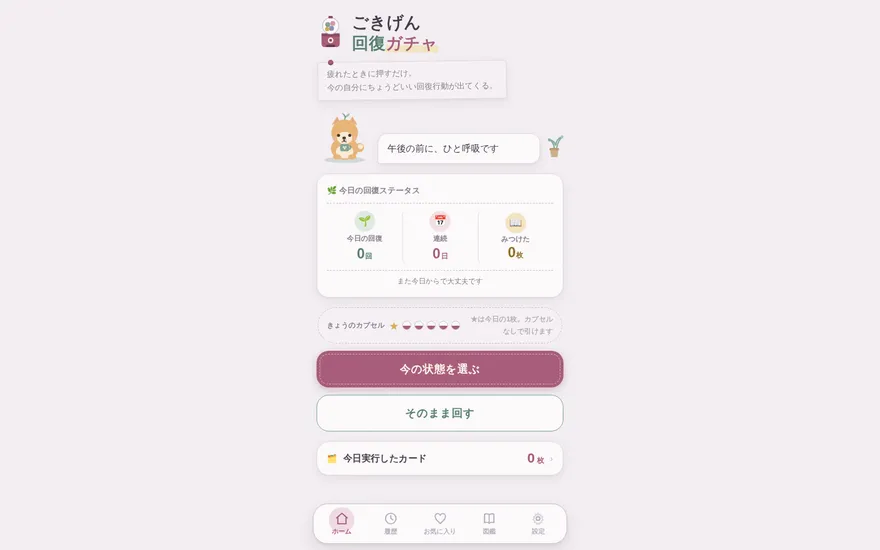
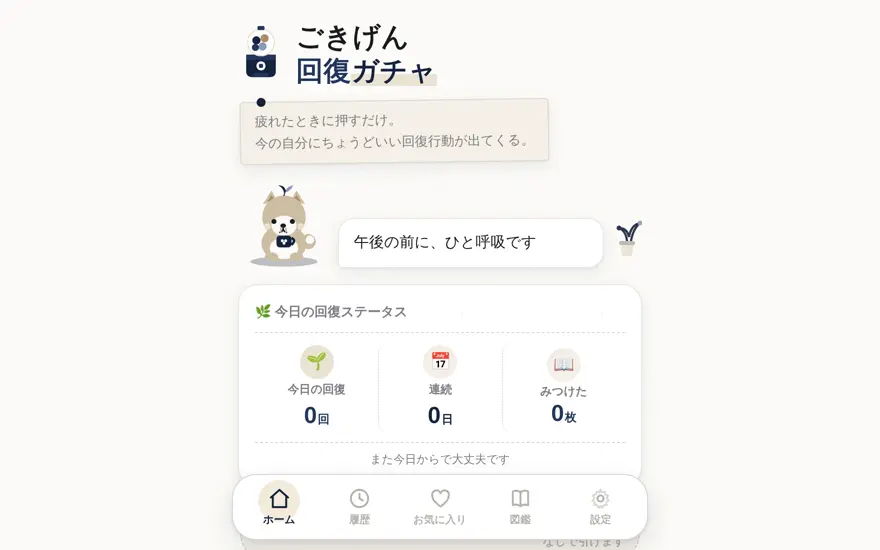
WIP: gokigen-gacha カテゴリ明度スケール反映+カタログ掲載配線(3照合中)
- カテゴリ7種の擬似区別をdesigner再設計どおり藍→生成りの明度1本スケールに
  (tag/state-card/tape/結果絵文字環。エイリアス廃止・具体トークン化)
- 機能系の旧sage/butter参照を藍系トークンへ(btn-secondary・週バー・
  トグル・★・付箋等)
- 掲載: PRODUCTS配列にカード追加(台帳catalogDraft)・sitemap追加・
  サムネイルを新配色で再生成

Claude-Session: https://claude.ai/code/session_01Qd9AdVq9npQuqHWcpJTbTa

Changed region(s): [[0.2761, 0.34, 0.7364, 1.0], [0.2761, 0.0309, 0.6443, 0.3091], [0.7057, 0.4018, 0.7364, 0.4636]]

diff --git a/gokigen-gacha/app/styles.css b/gokigen-gacha/app/styles.css
@@ -29,13 +29,6 @@
   --soft-border: var(--line); --soft-border-strong: var(--line-strong);
   /* CTA・強調(旧プラム)→ 藍 */
   --persimmon: var(--navy); --persimmon-deep: var(--blue); --persimmon-soft: var(--bg-3);
-  /* カテゴリ系 → 4系統内で擬似的に区別(designer再設計を反映) */
-  --sage: var(--navy);       --sage-deep: var(--blue);       --sage-soft: var(--bg-3);
-  --dusty-blue: var(--navy); --dusty-blue-deep: var(--blue); --dusty-blue-soft: var(--bg-3);
-  --peach: var(--navy);      --peach-deep: var(--blue);      --peach-soft: var(--bg-3);
-  --lav: var(--navy);        --lav-deep: var(--blue);        --lav-soft: var(--bg-3);
-  --butter: var(--navy);     --butter-deep: var(--blue);     --butter-soft: var(--bg-3);
-  --cream-soft: var(--bg-3); --cream-deep: var(--ink-3);
   --danger: var(--ink-2);
 
   /* ---- shadow tokens(藍の影) ---- */
@@ -147,15 +140,15 @@ button:active { transform: scale(0.985); }
   box-shadow: 0 1px 2px rgba(120, 90, 50, 0.12);
   background:
     repeating-linear-gradient(45deg, rgba(255,255,255,0.16) 0 5px, transparent 5px 10px),
-    var(--sage);
+    var(--blue-soft);
 }
-.tape.t-sage   { background-color: var(--sage); }
-.tape.t-blue   { background-color: var(--dusty-blue); }
-.tape.t-peach  { background-color: var(--peach); }
-.tape.t-lav    { background-color: var(--lav); }
-.tape.t-green  { background-color: var(--sage); }
-.tape.t-butter { background-color: var(--butter); }
-.tape.t-cream  { background-color: var(--cream-deep); opacity: 0.55; }
+.tape.t-blue   { background-color: var(--navy); }
+.tape.t-sage   { background-color: var(--blue-soft); }
+.tape.t-green  { background-color: var(--bg-3); }
+.tape.t-peach  { background-color: var(--bg-3); }
+.tape.t-lav    { background-color: var(--bg-2); }
+.tape.t-butter { background-color: var(--bg-2); }
+.tape.t-cream  { background-color: var(--ink-3); opacity: 0.55; }
 .tape.tilt-r { transform: translateX(-50%) rotate(2.5deg); }
 
 /* ---- button variants ---- */
@@ -191,8 +184,8 @@ button:active { transform: scale(0.985); }
 .btn-primary:active { filter: brightness(0.94); }
 .btn-secondary {
   background: var(--paper);
-  color: var(--sage-deep);
-  border: 1.6px solid var(--sage);
+  color: var(--blue);
+  border: 1.6px solid var(--navy);
 }
 .btn-outline {
   background: transparent;
@@ -204,7 +197,7 @@ button:active { transform: scale(0.985); }
 }
 .btn-ghost {
   background: none;
-  color: var(--sage-deep);
+  color: var(--blue);
   min-height: 44px;
   font-size: var(--fs-md);
   font-family: var(--font-body);
@@ -228,13 +221,15 @@ button:active { transform: scale(0.985); }
   font-weight: 700;
   white-space: nowrap;
 }
-.tag.t-sage   { background: var(--sage-soft);       color: var(--sage-deep); }
-.tag.t-blue   { background: var(--dusty-blue-soft); color: var(--dusty-blue-deep); }
-.tag.t-peach  { background: var(--peach-soft);      color: var(--peach-deep); }
-.tag.t-lav    { background: var(--lav-soft);        color: var(--lav-deep); }
-.tag.t-green  { background: var(--sage-soft);       color: var(--sage-deep); }
-.tag.t-butter { background: var(--butter-soft);     color: var(--butter-deep); }
-.tag.t-cream  { background: var(--cream-soft);      color: var(--cream-deep); }
+/* カテゴリ擬似区別: 藍→生成り→無色の一本の明度スケール。色相も砂も使わない */
+.tag.t-blue   { background: var(--navy);      color: var(--btn-ink); } /* 頭・情報 : 藍濃(唯一のベタ藍) */
+.tag.t-sage   { background: var(--blue-soft); color: var(--navy);    } /* 体・回復 : 藍淡面 */
+.tag.t-green  { background: var(--bg-3);      color: var(--navy);    } /* 生活     : 生成り濃 × 濃字 */
+.tag.t-peach  { background: var(--bg-3);      color: var(--blue);    } /* 気分     : 生成り濃 × 中字 */
+.tag.t-lav    { background: var(--bg-2);      color: var(--navy);    } /* 離れる   : 生成り中 × 濃字 */
+.tag.t-butter { background: var(--bg-2);      color: var(--ink-2);   } /* やさしさ : 生成り中 × 弱字 */
+.tag.t-cream  { background: var(--bg);        color: var(--ink-3);
+                box-shadow: inset 0 0 0 1px var(--line-strong); }      /* 休む     : ほぼ無色 × 細枠 */
 
 /* ---- 見出し ---- */
 .eyebrow {
@@ -269,7 +264,7 @@ button:active { transform: scale(0.985); }
   letter-spacing: 0.02em;
 }
 .title-multi .w1 { color: var(--cocoa); }
-.title-multi .w2 { color: var(--sage-deep); }
+.title-multi .w2 { color: var(--blue); }
 .title-multi .w3 { color: var(--persimmon); }
 /* サブコピー: 画鋲で留めたメモ風 */
 .app-sub {
@@ -298,7 +293,7 @@ button:active { transform: scale(0.985); }
 
 /* タイトル最終語にバターイエローの下線マーカー */
 .title-multi .w3 {
-  background-image: linear-gradient(transparent 62%, var(--butter-soft) 62%);
+  background-image: linear-gradient(transparent 62%, var(--bg-3) 62%);
 }
 
 /* カプセルメーター(1日の抽選回数) */
@@ -336,7 +331,7 @@ button:active { transform: scale(0.985); }
 /* 「カプセルが1個もどってきました」— ぽとんと落ちてくる演出 */
 .capsule-back {
   text-align: center;
-  color: var(--sage-deep);
+  color: var(--blue);
   font-size: var(--fs-sm);
   font-weight: 800;
   margin-top: 12px;
@@ -434,15 +429,15 @@ button:active { transform: scale(0.985); }
   font-size: 1.05rem;
   margin-bottom: 2px;
 }
-.status-cell.c1 .ic { background: var(--sage-soft); }
-.status-cell.c2 .ic { background: var(--peach-soft); }
-.status-cell.c3 .ic { background: var(--butter-soft); }
+.status-cell.c1 .ic { background: var(--bg-3); }
+.status-cell.c2 .ic { background: var(--bg-2); }
+.status-cell.c3 .ic { background: var(--bg-2); }
 .status-cell .k { display: block; font-size: var(--fs-xs); color: var(--cocoa-soft); font-weight: 700; }
 .status-cell .v { display: block; font-family: var(--font-display); font-size: 1.45rem; font-weight: 900; line-height: 1.25; }
 .status-cell .v small { font-size: 0.72rem; font-weight: 700; margin-left: 1px; }
-.status-cell.c1 .v { color: var(--sage-deep); }
+.status-cell.c1 .v { color: var(--blue); }
 .status-cell.c2 .v { color: var(--persimmon); }
-.status-cell.c3 .v { color: var(--butter-deep); }
+.status-cell.c3 .v { color: var(--blue); }
 .status-note {
   margin-top: 10px;
   padding-top: 8px;
@@ -461,11 +456,11 @@ button:active { transform: scale(0.985); }
   position: relative;
   border: 1px solid var(--soft-border);
   box-shadow: var(--shadow-paper);
-  background: var(--butter-soft);
+  background: var(--bg-3);
   background-image: var(--paper-grain);
 }
 .fav-shortcut:nth-child(even) {
-  background-color: var(--peach-soft);
+  background-color: var(--bg-2);
   transform: rotate(0.9deg);
 }
 .fav-shortcut:nth-child(odd) { transform: rotate(-0.9deg); }
@@ -476,7 +471,7 @@ button:active { transform: scale(0.985); }
   margin-left: -5px;
   width: 10px; height: 10px;
   border-radius: 50%;
-  background: var(--dusty-blue);
+  background: var(--navy);
   box-shadow: inset 0 -2px 2px rgba(0, 0, 0, 0.25), 0 1px 2px rgba(0, 0, 0, 0.2);
 }
 .fav-shortcut .emoji { font-size: 1.6rem; display: block; margin-bottom: 3px; }
@@ -513,12 +508,13 @@ button:active { transform: scale(0.985); }
   transition: transform 0.12s ease, border-color 0.12s ease, box-shadow 0.12s ease;
 }
 /* 状態ごとの淡い色棚 */
-.state-card.t-sage   { background-color: var(--sage-soft); }
-.state-card.t-blue   { background-color: var(--dusty-blue-soft); }
-.state-card.t-peach  { background-color: var(--peach-soft); }
-.state-card.t-lav    { background-color: var(--lav-soft); }
-.state-card.t-butter { background-color: var(--butter-soft); }
-.state-card.t-cream  { background-color: var(--cream-soft); }
+.state-card.t-blue   { background-color: var(--blue-soft); }  .state-card.t-blue   .ttl { color: var(--navy); }
+.state-card.t-sage   { background-color: var(--bg-3); }        .state-card.t-sage   .ttl { color: var(--navy); }
+.state-card.t-green  { background-color: var(--bg-3); }        .state-card.t-green  .ttl { color: var(--blue); }
+.state-card.t-peach  { background-color: var(--bg-2); }        .state-card.t-peach  .ttl { color: var(--navy); }
+.state-card.t-lav    { background-color: var(--bg-2); }        .state-card.t-lav    .ttl { color: var(--blue); }
+.state-card.t-butter { background-color: var(--bg-2); }        .state-card.t-butter .ttl { color: var(--ink-2); }
+.state-card.t-cream  { background-color: var(--card); }        .state-card.t-cream  .ttl { color: var(--ink-3); }
 .state-card .emoji { font-size: 1.5rem; display: block; margin-bottom: 5px; }
 .state-card .ttl { display: block; font-family: var(--font-display); font-weight: 700; font-size: 0.99rem; }
 .state-card .desc { display: block; font-size: var(--fs-xs); color: var(--cocoa-soft); margin-top: 2px; line-height: 1.55; }
@@ -608,12 +604,13 @@ button:active { transform: scale(0.985); }
   font-size: 2.1rem;
   border: 1.5px solid var(--sand);
 }
-.result-top .emoji.t-sage   { background: var(--sage-soft); }
-.result-top .emoji.t-blue   { background: var(--dusty-blue-soft); }
-.result-top .emoji.t-peach  { background: var(--peach-soft); }
-.result-top .emoji.t-lav    { background: var(--lav-soft); }
-.result-top .emoji.t-butter { background: var(--butter-soft); }
-.result-top .emoji.t-cream  { background: var(--cream-soft); }
+.result-top .emoji.t-blue   { background: var(--blue-soft); }
+.result-top .emoji.t-sage   { background: var(--bg-3); }
+.result-top .emoji.t-green  { background: var(--bg-3); }
+.result-top .emoji.t-peach  { background: var(--bg-2); }
+.result-top .emoji.t-lav    { background: var(--bg-2); }
+.result-top .emoji.t-butter { background: var(--bg-2); }
+.result-top .emoji.t-cream  { background: var(--card); }
 .result-top h2 { font-family: var(--font-display); font-size: 1.32rem; font-weight: 900; line-height: 1.45; }
 .result-divider {
   border: none;
@@ -628,7 +625,7 @@ button:active { transform: scale(0.985); }
 .meta-item .v { font-size: var(--fs-md); font-weight: 800; margin-top: 1px; }
 .meta-item .v .big { font-family: var(--font-display); font-size: 1.25rem; color: var(--persimmon); }
 .meta-item.wide { grid-column: 1 / -1; }
-.stars { color: var(--butter); letter-spacing: 2px; text-shadow: 0 1px 0 rgba(120,90,50,0.15); }
+.stars { color: var(--navy); letter-spacing: 2px; }
 .stars .off { color: var(--soft-border-strong); text-shadow: none; }
 .state-pills { display: flex; flex-wrap: wrap; gap: 5px; margin-top: 3px; }
 
@@ -701,7 +698,7 @@ button:active { transform: scale(0.985); }
 .week-card-grid .k { font-size: var(--fs-xs); color: var(--cocoa-soft); font-weight: 700; }
 .week-card-grid .v { font-family: var(--font-display); font-weight: 900; font-size: 1.3rem; line-height: 1.3; }
 .week-card-grid .v small { font-size: 0.72rem; font-weight: 700; }
-.week-card-grid .cell.n1 .v { color: var(--sage-deep); }
+.week-card-grid .cell.n1 .v { color: var(--blue); }
 .week-card-grid .cell.n3 .v { color: var(--persimmon); }
 .week-card-row {
   display: flex; align-items: center; gap: 8px; flex-wrap: wrap;
@@ -720,9 +717,9 @@ button:active { transform: scale(0.985); }
 .week-chart { display: grid; grid-template-columns: repeat(7, 1fr); gap: 8px; align-items: end; padding: 14px 14px 10px; margin-top: var(--sp-3); }
 .week-col { text-align: center; }
 .week-col .bar-track { height: 64px; display: flex; align-items: flex-end; justify-content: center; }
-.week-col .bar { width: 15px; border-radius: 8px 8px 3px 3px; background: var(--sage); min-height: 4px; }
+.week-col .bar { width: 15px; border-radius: 8px 8px 3px 3px; background: var(--navy); min-height: 4px; }
 .week-col.zero .bar { background: var(--soft-border); }
-.week-col .num { font-size: var(--fs-xs); font-weight: 800; color: var(--sage-deep); margin-top: 3px; }
+.week-col .num { font-size: var(--fs-xs); font-weight: 800; color: var(--blue); margin-top: 3px; }
 .week-col.zero .num { color: var(--cocoa-faint); }
 .week-col .day { font-size: 0.68rem; color: var(--cocoa-soft); }
 .week-col.today .day { color: var(--persimmon); font-weight: 800; }
@@ -786,7 +783,7 @@ button:active { transform: scale(0.985); }
 .fav-item .body { flex: 1; min-width: 0; }
 .fav-item .ttl { font-size: var(--fs-md); font-weight: 700; line-height: 1.45; }
 .fav-item .meta { font-size: var(--fs-xs); color: var(--cocoa-soft); margin-top: 2px; display: flex; gap: 8px; flex-wrap: wrap; align-items: center; }
-.fav-item .runs { color: var(--sage-deep); font-weight: 700; }
+.fav-item .runs { color: var(--blue); font-weight: 700; }
 .fav-actions { display: flex; gap: 6px; }
 
 /* =========================================================================
@@ -795,7 +792,7 @@ button:active { transform: scale(0.985); }
 .dex-head { display: flex; align-items: center; gap: 14px; margin-bottom: var(--sp-3); padding: var(--sp-4); }
 .dex-head .body { flex: 1; }
 .dex-head h2 { font-family: var(--font-display); font-size: 1.18rem; font-weight: 900; }
-.dex-head h2 .w2 { color: var(--sage-deep); }
+.dex-head h2 .w2 { color: var(--blue); }
 .dex-head p { font-size: var(--fs-xs); color: var(--cocoa-soft); margin-top: 2px; }
 .dex-count { text-align: center; flex: none; padding: 6px 14px; border-radius: var(--radius-md); background: var(--paper-2); border: 1.5px dashed var(--soft-border-strong); }
 .dex-count .k { font-size: 0.68rem; color: var(--cocoa-soft); font-weight: 700; }
@@ -862,7 +859,7 @@ button:active { transform: scale(0.985); }
   box-shadow: 0 1px 4px rgba(0, 0, 0, 0.22);
   transition: left 0.2s ease;
 }
-.toggle.on { background: var(--sage); }
+.toggle.on { background: var(--navy); }
 .toggle.on::after { left: 25px; }
 
 .time-input {

diff --git a/products/index.html b/products/index.html
@@ -121,6 +121,8 @@ window.addEventListener('DOMContentLoaded', () => {
       p: '「体交してた」を、履歴書や面接で通じる言葉に。星であつめて、まとめてコピーできる対訳集。' },
     { cat: 'casual', name: 'Moyamoya Check', img: 'moyamoya.png', jp: '職場モヤモヤ診断', href: '../moyamoya/index.html',
       p: '職場の“なんとなくしんどい”を10問で言語化する診断。約3分・登録不要。' },
+    { cat: 'casual', name: 'Gokigen Gacha', img: 'gokigen-gacha.png', jp: 'ごきげん回復ガチャ', href: '../gokigen-gacha/index.html',
+      p: '疲れた日に、いまの自分にちょうどいい回復行動をひとつだけ。押すだけのセルフケアガチャ。' },
     { cat: 'casual', name: 'PMI Quest', img: 'pmi-quest.png', jp: 'クリニックPMIクエスト', href: '../pmi-quest/index.html',
       p: '承継直後のクリニックで最初の30日に向き合う診断型ゲーム。' },
     { cat: 'casual', name: 'Ittan Horyu', img: 'ittan-horyu.png', jp: 'いったん保留', href: '../ittan-horyu/index.html',
